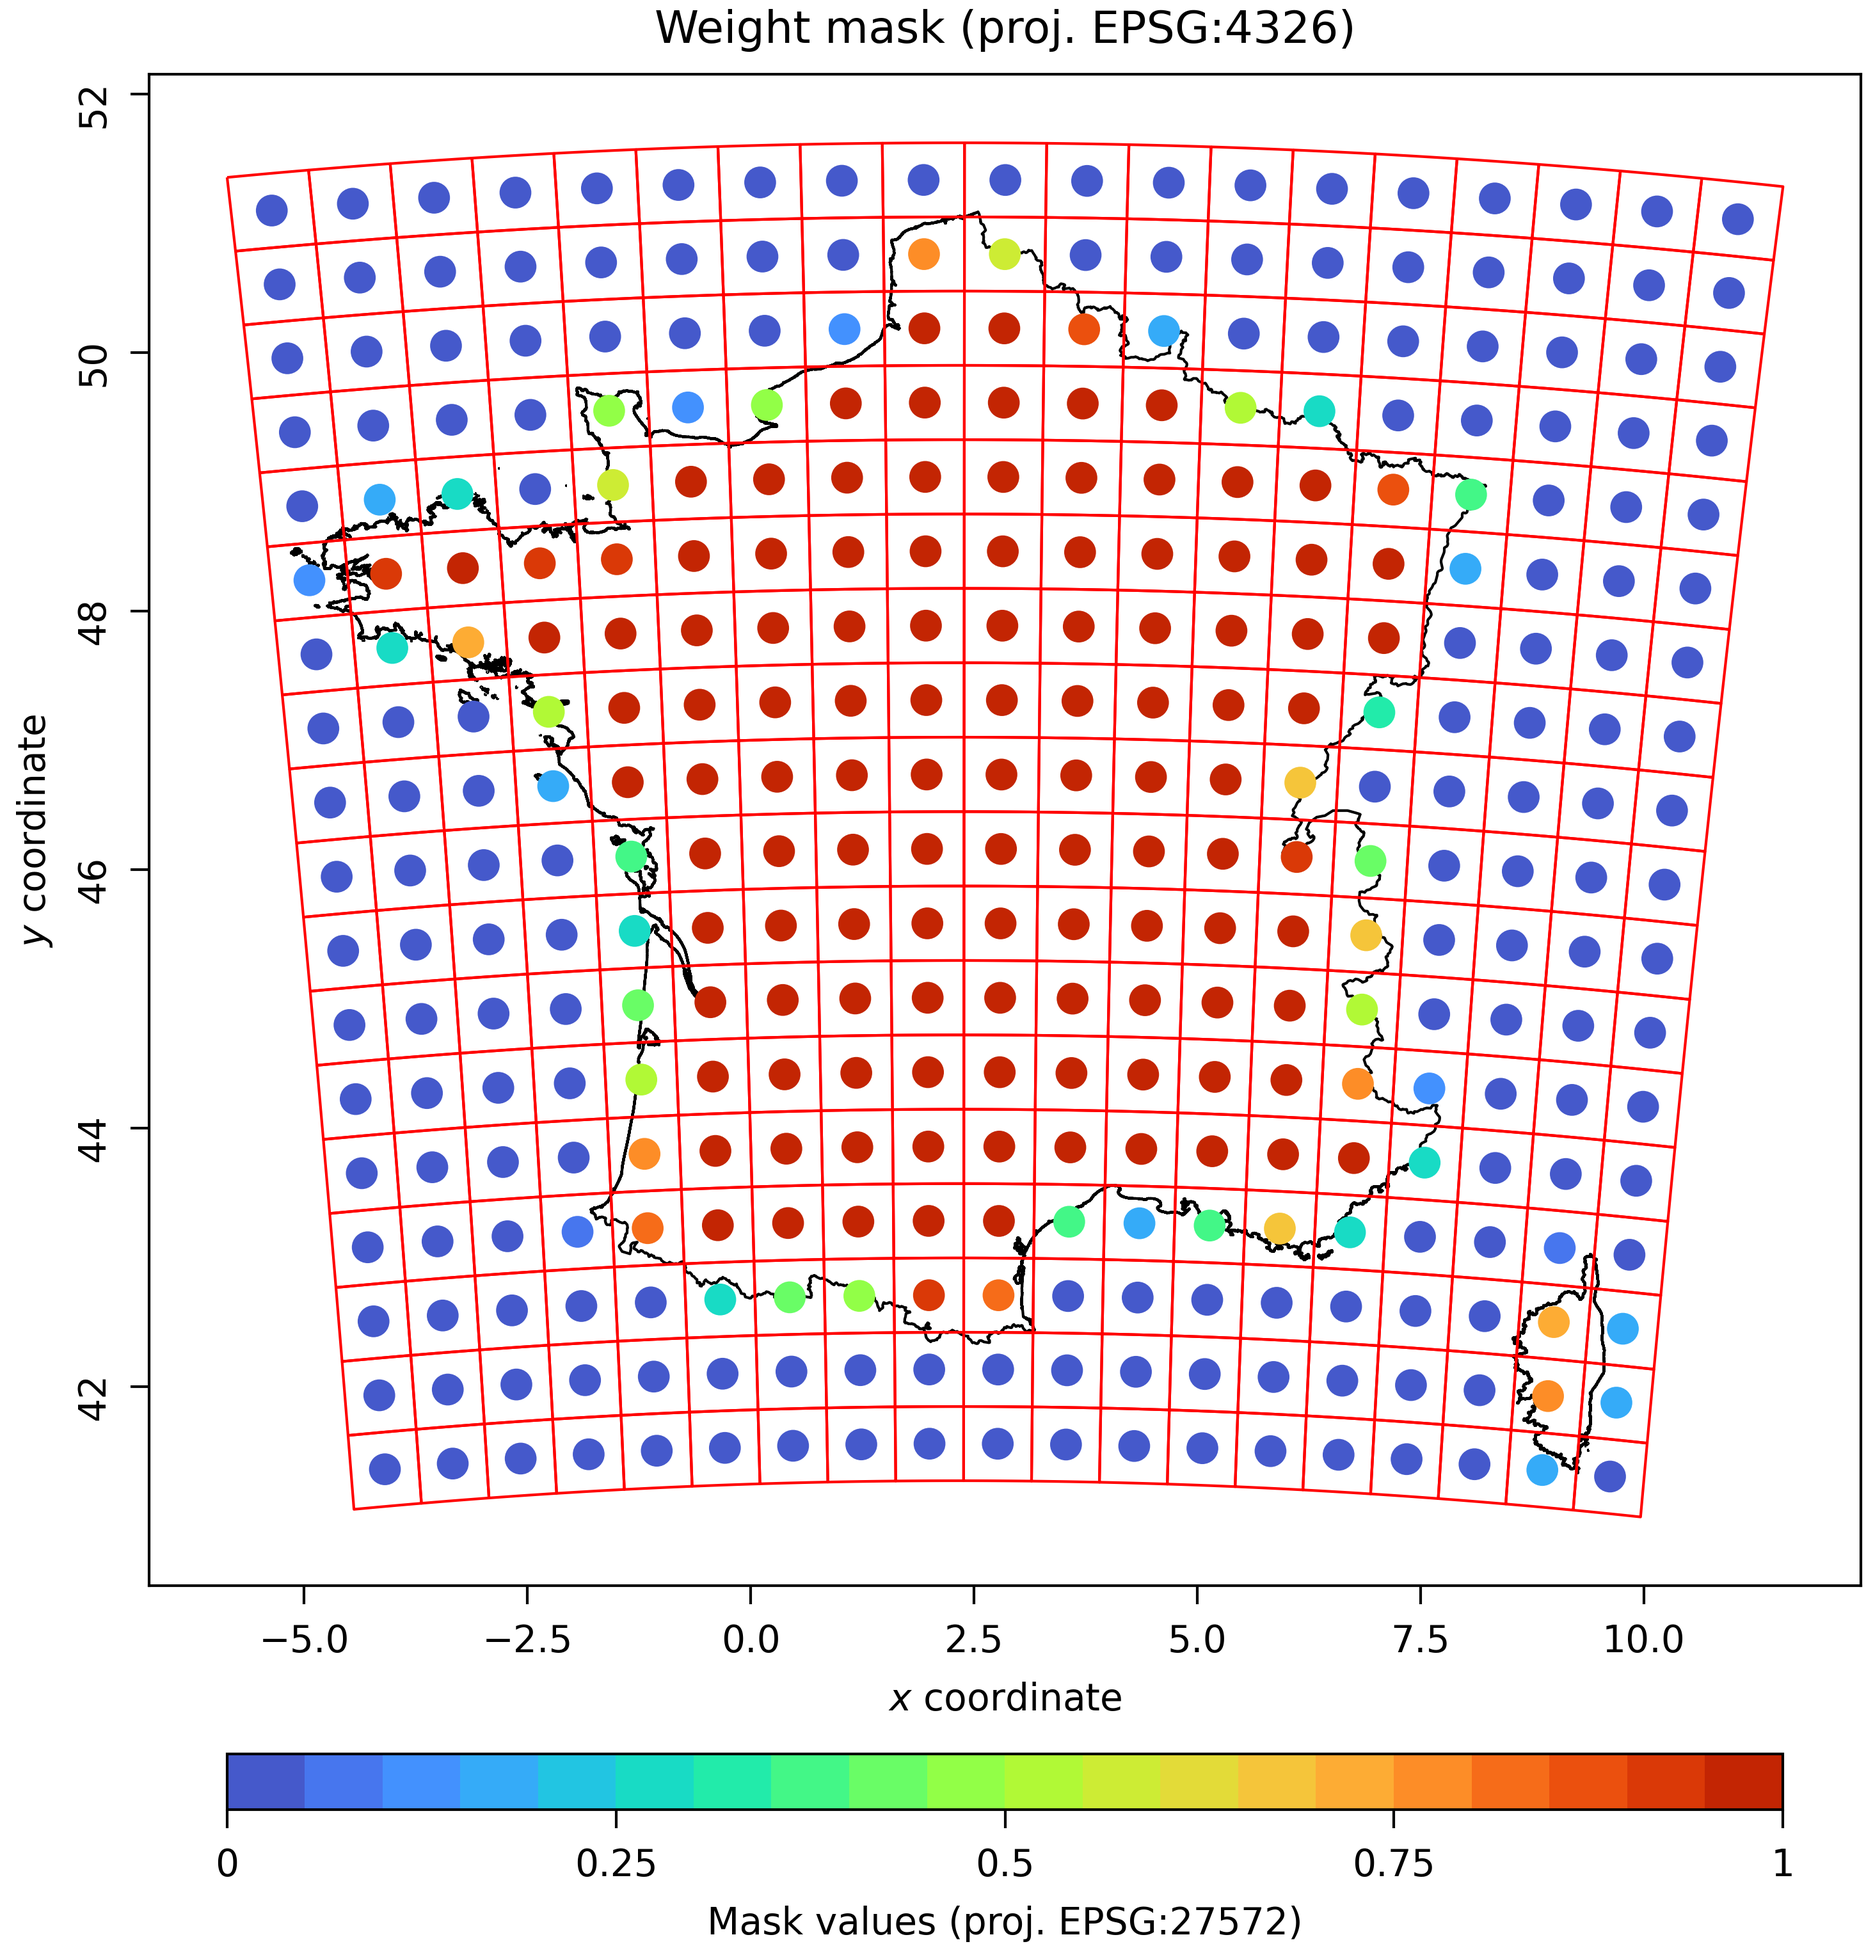
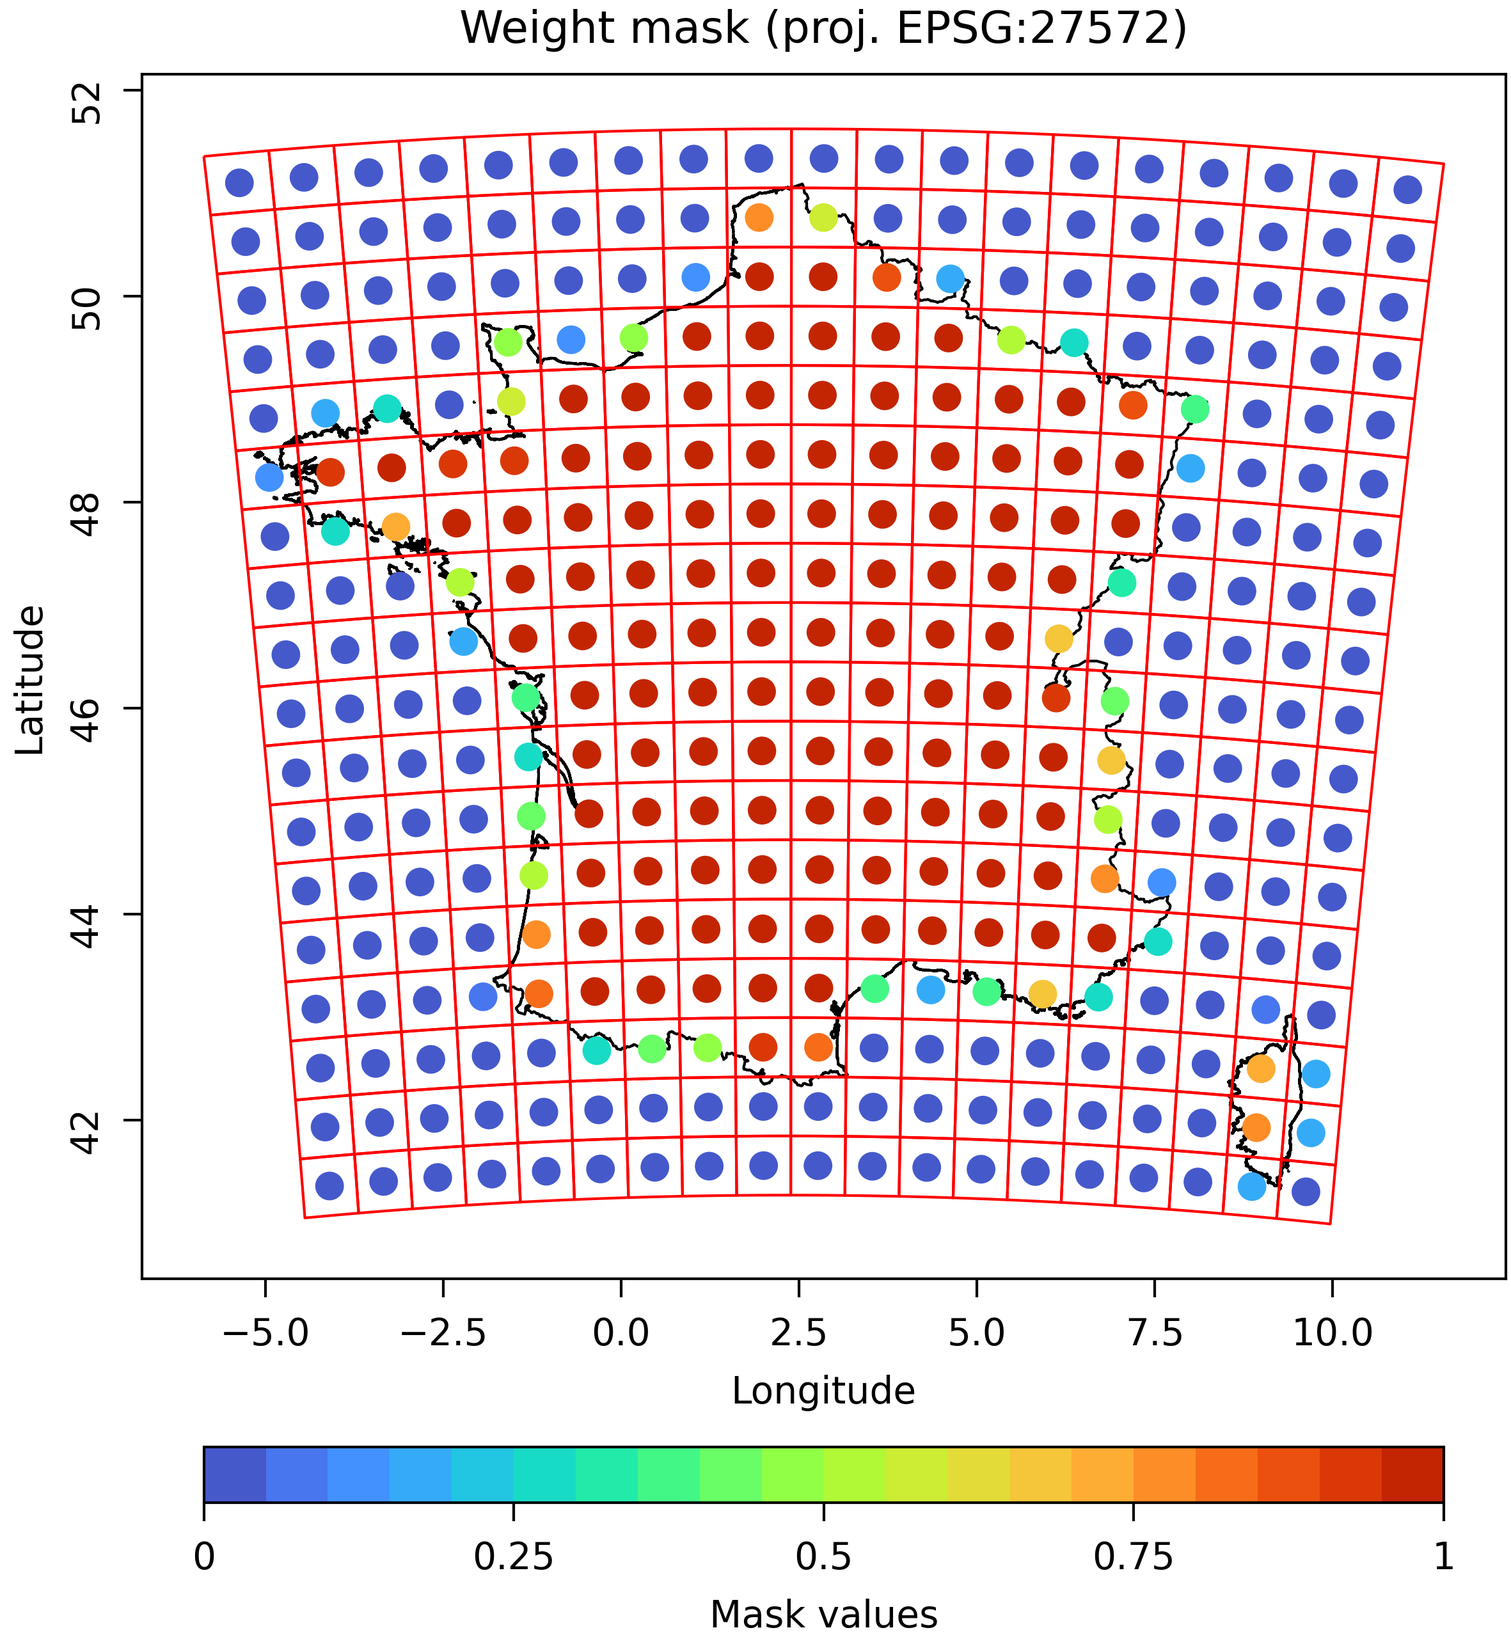
Update plot

diff --git a/Shp2ncmask/__plot.py b/Shp2ncmask/__plot.py
@@ -67,14 +67,18 @@ def build_figure( figf , fepsg , oepsg , grid , ish , mask , method ):
 	grid.sq.to_crs(epsg=fepsg).plot( ax = ax , facecolor = "none" , edgecolor = "red" )
 	im = ax.scatter( XY[:,0] , XY[:,1] , c = np.floor( n_step * mask.ravel() ) / n_step , cmap = cmap )
 	plt.yticks(rotation = 90)
-	ax.set_xlabel( r"$x$ coordinate" )
-	ax.set_ylabel( r"$y$ coordinate" )
-	ax.set_title( "{} mask (proj. EPSG:{})".format(method.title(),fepsg) )
+	if fepsg == "4326":
+		ax.set_xlabel( r"Longitude" )
+		ax.set_ylabel( r"Latitude" )
+	else:
+		ax.set_xlabel( r"$x$ coordinate (proj. EPSG:{})".format(fepsg) )
+		ax.set_ylabel( r"$y$ coordinate (proj. EPSG:{})".format(fepsg) )
+	ax.set_title( "{} mask (proj. EPSG:{})".format(method.title(),oepsg) )
 	
 	## Plot colorbar
 	gax = g[3,1].subgridspec( 1 , 3 , width_ratios = [0.05,1,0.05] )
 	cax = fig.add_subplot(gax[0,1])
-	cbar = plt.colorbar( mappable = im , cax = cax , orientation = "horizontal" , ticks = [0,0.25,0.5,0.75,1] , label = "Mask values (proj. EPSG:{})".format(oepsg) )
+	cbar = plt.colorbar( mappable = im , cax = cax , orientation = "horizontal" , ticks = [0,0.25,0.5,0.75,1] , label = "Mask values" )
 	cbar.ax.set_xticklabels( ["0","0.25","0.5","0.75","1"] )
 	
 	## Units for figsize
@@ -85,18 +89,27 @@ def build_figure( figf , fepsg , oepsg , grid , ish , mask , method ):
 	
 	
 	## Find width and heigh
-	## The reference is the height of subplot of the map, others heights are:
-	## Height for the title, , Height for x-label, height of the colorbar and height of ticks / label of the colorbar
-	## Width is determined as the ratio of the subplot of the map, we add:
-	## A space of y-label, a very little space to show the right black line of axis
-	height_cax = 100*mm
-	heights    = np.array([2*fontsize,height_cax,4.5*fontsize,1.5*fontsize,3.6*fontsize])
-	height     = np.sum(heights)
-	widths     = np.array([4*fontsize , height_cax / ax.get_data_ratio() / ax.get_aspect(),2*axeslw])
-	width      = np.sum(widths)
+	## The reference is the total width, equal to 100mm, then:
+	## To the left of the map, an extra space of 3.8*fontsize is added for y-label
+	## To the right of the map, an extra space of 2*axeslw is added to show axes
+	## So, the width_ax is the width minus these values
+	## Height is given by the ratio of width_ax, where ratio is a product of data ratio and aspect ratio
+	## An extra space of 2*fontsize is added on the top for title
+	## An extra space of 4.5*fontsize is added below for x-label and a space with colorbar
+	## A space of 1.5*fontsize is added for colorbar
+	## And a space of 3.6 fontsize is added for labels / title of colorbar
+	width    = 100*mm
+	width_ax = width - (3.8*fontsize + 2*axeslw)
+	widths   = np.array([3.8*fontsize , width_ax ,2*axeslw])
 	
-	im.set_sizes([ 2 * min(width,height_cax) / max(grid.nx,grid.ny) / pt ])
+	height_ax = width_ax * ax.get_data_ratio() * ax.get_aspect()
+	heights   = np.array([2*fontsize,height_ax,4.5*fontsize,1.5*fontsize,3.6*fontsize])
+	height    = np.sum(heights)
 	
+	## Set bullet size of grid, depending of width, height and grid size
+	im.set_sizes([ 2 * min(width_ax,height_ax) / max(grid.nx,grid.ny) / pt ])
+	
+	## And now we set all width, height and ratios.
 	g.set_height_ratios(heights)
 	g.set_width_ratios(widths)
 	fig.set_figheight(height)
